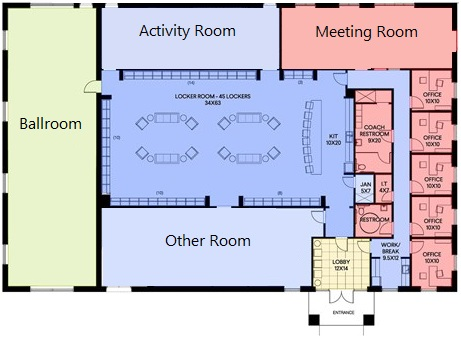
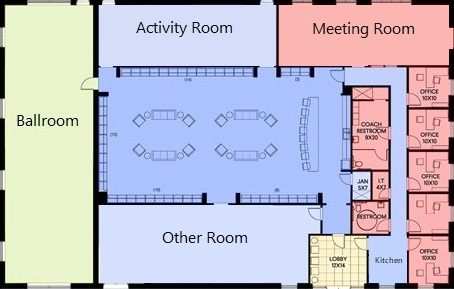
Edit blueprint.jpg asset file

diff --git a/Server/Server/Client/src/app/request/request.component.sass b/Server/Server/Client/src/app/request/request.component.sass
@@ -37,22 +37,22 @@ mat-radio-button
 
 #ballroom
     position: relative
-    top: -300px
-    left: 34px
+    top: -240px
+    left: -200px
 
 #activity-room
     position: relative
-    top: -430px
+    top: -370px
     left: -42px
 
 #meeting-room
     position: relative
-    top: -428px
+    top: -368px
     left: 172px
 
 #other-room
     position: relative
-    top: -138px
+    top: -78px
     left: -88px
 
 mat-card-actions
